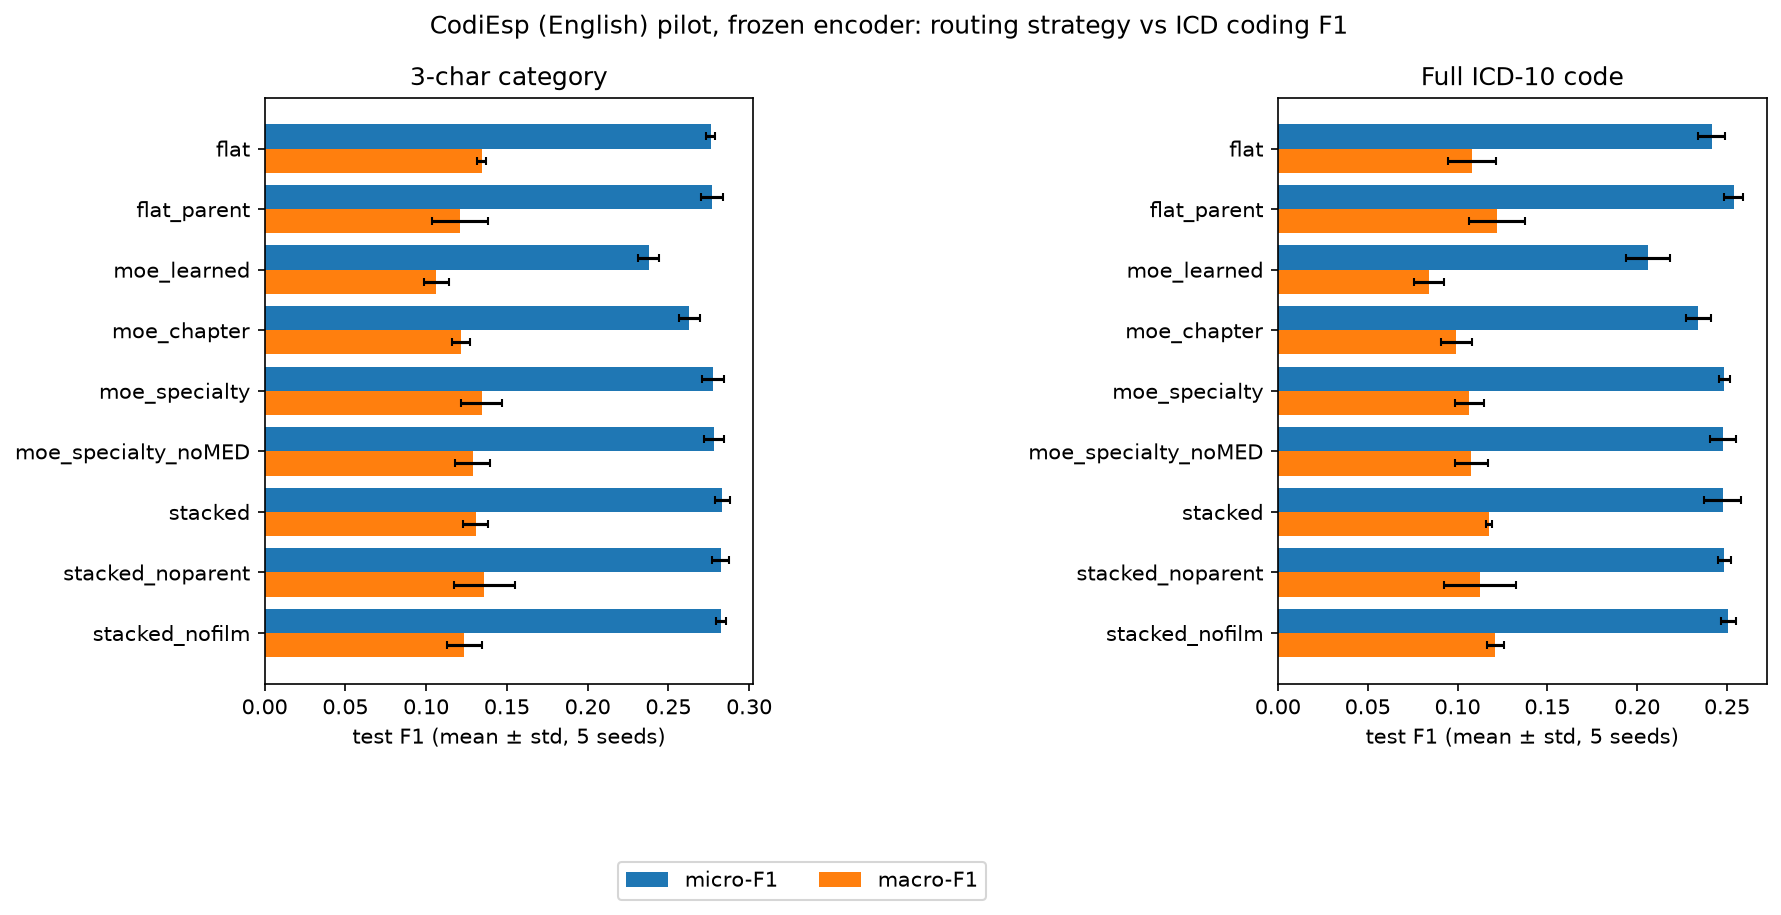
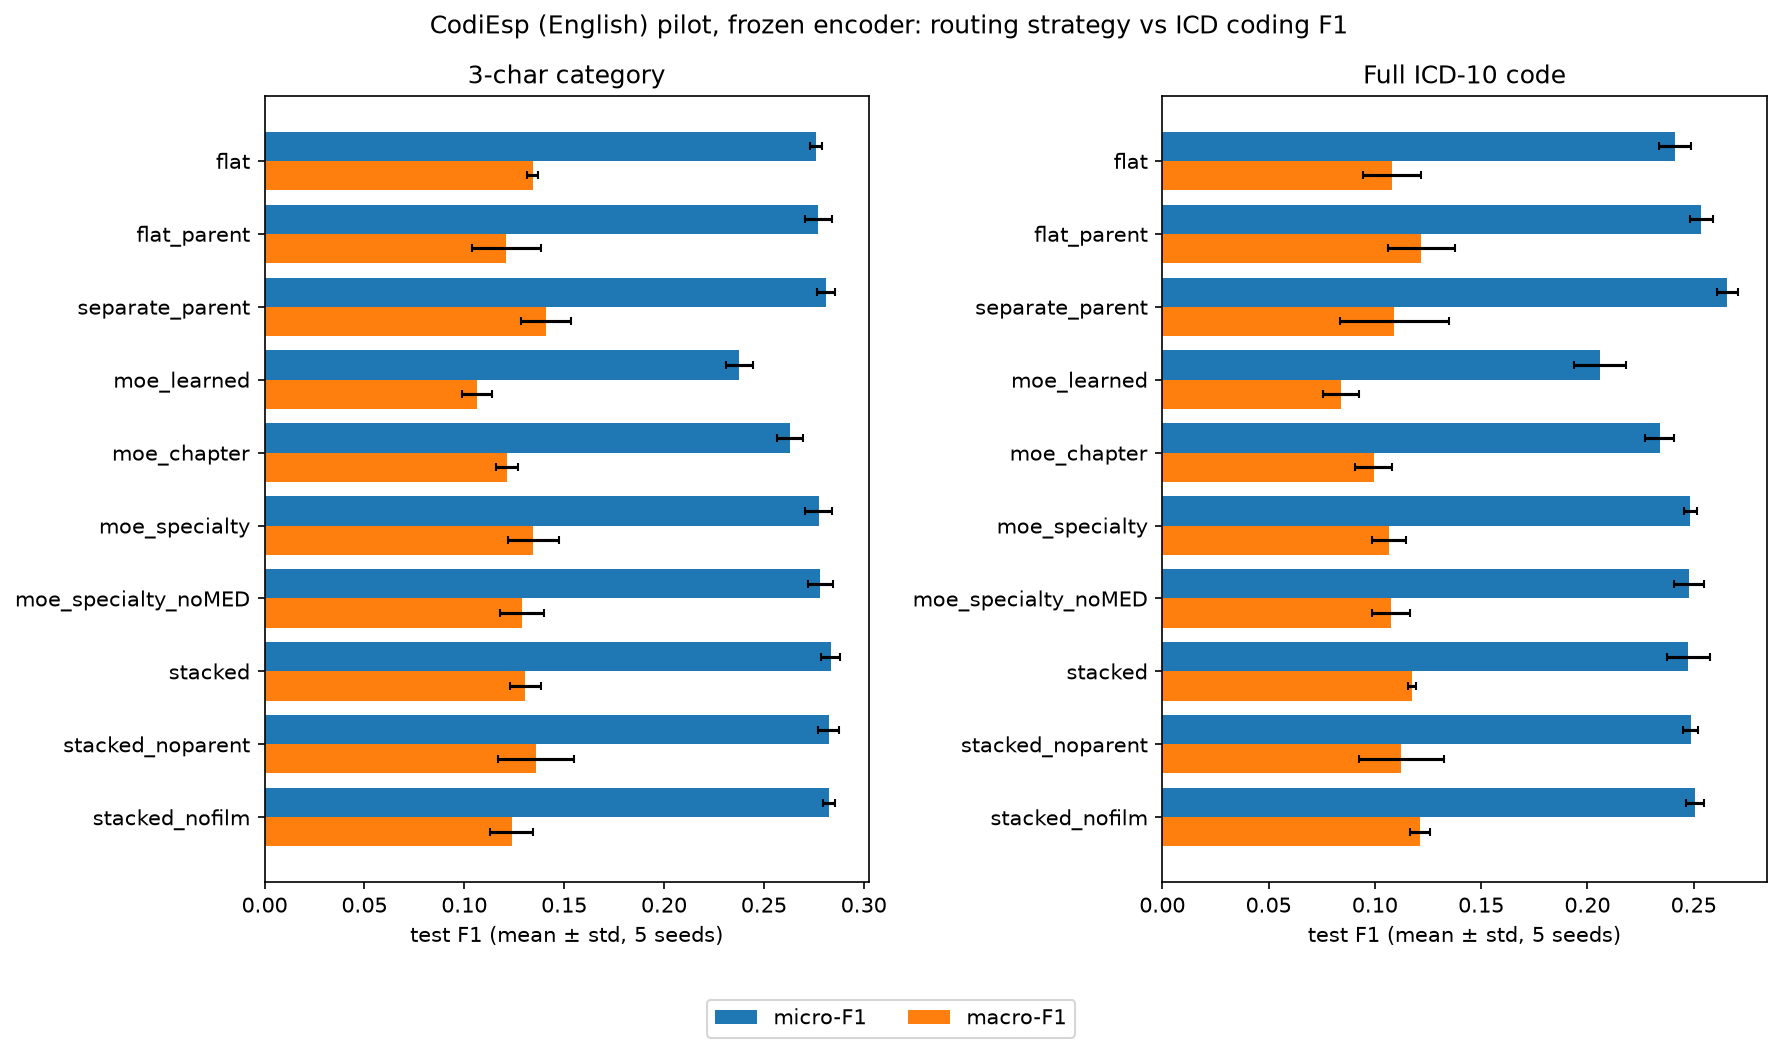
Compare one joint model vs two separate models for parent and full codes
Two separate models (categories first, then full codes conditioned on the
first model's scores) reach 0.266 full-code micro-F1 vs 0.254 for the
joint model, with twice the parameters and noisier macro-F1. The existing
45 runs reproduce exactly through the shared training loop.

diff --git a/index.html b/index.html
@@ -182,7 +182,7 @@ footer { border-top: 1px solid var(--rule); padding-top: 20px; font-size: 0.85re
     <li><div class="num">40.7%<small>of admissions</small></div><p>of admissions in the MIMIC-IV Demo start under general medicine (<code>MED</code>). A general-medicine expert would be the biggest one, so whether we keep it as a catch-all or leave those patients out is a real decision.</p></li>
     <li><div class="num">7.7<small>chapters / stay</small></div><p>ICD chapters per admission on average. A patient usually has codes from many chapters but only one admitting service.</p></li>
     <li><div class="num">+1.4<small>micro-F1 points</small></div><p>Routing by specialty did better than routing by chapter at both code levels. No MoE version clearly beat a plain model without experts, though.</p></li>
-    <li><div class="num">+1.2<small>micro-F1 points</small></div><p>Feeding each full code its parent category's score helped. Published hierarchy methods on MIMIC-III report gains of about the same size (+0.9 to +1.2 micro-F1).</p></li>
+    <li><div class="num">+1.2<small>micro-F1 points</small></div><p>Feeding each full code its parent category's score helped. Splitting this into two separate models, one for parent codes and one for full codes, added another 1.2 points, though with twice the parameters. Published hierarchy methods on MIMIC-III report gains of about the same size (+0.9 to +1.2 micro-F1).</p></li>
   </ul>
 </section>
 
@@ -286,7 +286,8 @@ footer { border-top: 1px solid var(--rule); padding-top: 20px; font-size: 0.85re
       <thead><tr><th>Version</th><th>How it works</th><th>Meeting idea it tests</th></tr></thead>
       <tbody>
         <tr><td>Plain model</td><td>One network, no experts</td><td>Baseline to beat</td></tr>
-        <tr><td>Plain + parent conditioning</td><td>Each full code also sees its 3-character parent's score</td><td>Parent-child hierarchy</td></tr>
+        <tr><td>Plain + parent conditioning (one model)</td><td>One model predicts both levels; each full code also sees its 3-character parent's score</td><td>Parent-child hierarchy</td></tr>
+        <tr><td>Two separate models</td><td>Model 1 predicts the parent codes. Model 2 rereads the note and uses model 1's parent predictions to predict the full codes</td><td>One model vs. separate models for parent and child</td></tr>
         <tr><td>MoE, learned gate</td><td>The model decides how to split notes among 8 experts</td><td>Do we need labels to route at all?</td></tr>
         <tr><td>MoE, chapter-routed</td><td>One expert per ICD chapter; the gate learns to predict the note's chapters</td><td>Chapter experts</td></tr>
         <tr><td>MoE, specialty-routed</td><td>One expert per specialty; the predicted specialty picks the experts</td><td>Specialty experts</td></tr>
@@ -316,6 +317,7 @@ footer { border-top: 1px solid var(--rule); padding-top: 20px; font-size: 0.85re
       <li><b>Specialty routing beat chapter routing</b> (0.277 vs. 0.263 on categories, 0.248 vs. 0.234 on full codes), even though the chapter model is twice the size. My explanation: a note covers many chapters, so the chapter gate has to guess them from the text and spreads its weight around, while the specialty is known up front.</li>
       <li><b>No MoE version clearly beat the plain model.</b> With 500 training notes, each expert gets very little data. The learned gate put almost everything on 1–2 experts and did worst, which suggests routing should be guided by real labels like chapter or service.</li>
       <li><b>Parent conditioning helped full codes</b> (+1.2 micro-F1, +1.4 macro-F1 over the plain model).</li>
+      <li><b>Two separate models beat one model</b> on full codes (0.266 vs. 0.254 micro-F1), the best full-code score of any version. Two catches: the pair has twice the parameters of the single model, and its macro-F1, which weights rare codes equally, was lower and varied a lot between runs (0.109 ± 0.026). So it may help common codes more than rare ones. Model 1's predictions on its own training notes are also more confident than on new notes, which could matter more on MIMIC.</li>
       <li><b>The stacked model had the best category score</b> (0.283), but only by about 1–2 standard deviations. Taking out FiLM, the layer that adjusts the full-code prediction by specialty and chapter, didn't hurt, so that part of the idea needs a different design or more data.</li>
       <li><b>Removing the general-medicine expert changed nothing</b>, because only 8% of CodiEsp notes are classified as general medicine. In MIMIC it's 41%, so this test should matter much more there.</li>
     </ul>
@@ -333,7 +335,7 @@ footer { border-top: 1px solid var(--rule); padding-top: 20px; font-size: 0.85re
       <tbody>
         <tr><td>The <code>services</code> numbers in Experiment 1 come from real MIMIC-IV tables.</td><td>Absolute scores. CodiEsp case reports are shorter and different in style from discharge summaries.</td></tr>
         <tr><td>The experiment design: same encoder for every version, only routing changes, a fixed train/dev/test split, 5 runs each.</td><td>Specialty labels are predicted from MTSamples. In MIMIC the real service would route much more sharply.</td></tr>
-        <tr><td>The code: ICD-9/ICD-10 chapter mapping, all nine versions, and the evaluation all run on any notes coded in ICD-10.</td><td>Rare codes. I left out codes seen fewer than 3 times, and MIMIC has thousands of them.</td></tr>
+        <tr><td>The code: ICD-9/ICD-10 chapter mapping, all ten versions, and the evaluation all run on any notes coded in ICD-10.</td><td>Rare codes. I left out codes seen fewer than 3 times, and MIMIC has thousands of them.</td></tr>
         <tr><td>Direction of the results: supervised routing beats a learned gate, and parent conditioning helps.</td><td>Whether specialty still beats chapter with real service labels and far more training data.</td></tr>
       </tbody>
     </table>
@@ -361,6 +363,7 @@ footer { border-top: 1px solid var(--rule); padding-top: 20px; font-size: 0.85re
         <tr><td>Run the same pipeline on MIMIC-IV discharge notes with the real <code>curr_service</code> labels, using the corrected train/test split from Edin et al.</td><td>Tests whether specialty routing still wins with true labels and far more data.</td></tr>
         <tr><td>Compare hard routing (the service picks exactly one expert), soft routing (the service is one input to the gate), and service plus note text</td><td>Nobody has published on this router design question.</td></tr>
         <tr><td>Test keeping a general-medicine expert vs. leaving MED admissions out</td><td>MED is 41% of admissions in MIMIC, so this choice is big there.</td></tr>
+        <tr><td>Compare one vs. two models at the same size, and check rare codes separately</td><td>Separate models won on common codes here but had twice the parameters and noisier rare-code scores.</td></tr>
         <tr><td>Replace FiLM with attention, where each full code looks directly at its parent codes (like the Two-Stage Decoder)</td><td>FiLM didn't help; attention is the stronger published approach.</td></tr>
         <tr><td>Fine-tune the encoder on a free Kaggle GPU (notebook tested on a small sample; a full run is estimated at about 3 hours)</td><td>Raises the scores and checks that the ranking holds.</td></tr>
       </tbody>
@@ -373,8 +376,8 @@ footer { border-top: 1px solid var(--rule); padding-top: 20px; font-size: 0.85re
   <div class="stack small muted">
     <p><b>Data.</b> MIMIC-IV Demo v2.2: <code>services</code> (first service per admission by transfer time) and <code>diagnoses_icd</code>, with ICD-9 codes mapped to ICD-10 chapters. MTSamples: 4,999 notes reduced to 2,094 after removing duplicates and labels that are note types (Consult, SOAP, Discharge Summary) instead of specialties. CodiEsp English: 500 train / 250 dev / 250 test, keeping codes with at least 3 training occurrences.</p>
     <p><b>Specialty classifier.</b> TF-IDF (1–2-word phrases) with class-balanced logistic regression, 80/20 stratified split.</p>
-    <p><b>Coding models.</b> Bio_ClinicalBERT with notes split into 512-token chunks and averaged, encoder frozen. Experts are 128-unit layers. The chapter gate is trained toward each note's chapter distribution; the learned gate has a load-balancing penalty. Trained with AdamW and stopped early on the dev set; one decision threshold per code level is tuned on dev. Macro-F1 averages over codes that appear in the test set.</p>
-    <p><b>Code.</b> <a href="https://github.com/akankshyam07/icd-moe-pilot" target="_blank" rel="noopener">github.com/akankshyam07/icd-moe-pilot</a>: Python scripts for each step plus a Kaggle notebook. Every run uses a fixed seed and reproduces exactly; the full comparison takes about 8 minutes on a laptop.</p>
+    <p><b>Coding models.</b> Bio_ClinicalBERT with notes split into 512-token chunks and averaged, encoder frozen. Experts are 128-unit layers. The chapter gate is trained toward each note's chapter distribution; the learned gate has a load-balancing penalty. The two-model version trains a category model first, then a separate full-code model that takes the note plus the first model's category scores. Trained with AdamW and stopped early on the dev set; one decision threshold per code level is tuned on dev. Macro-F1 averages over codes that appear in the test set.</p>
+    <p><b>Code.</b> <a href="https://github.com/akankshyam07/icd-moe-pilot" target="_blank" rel="noopener">github.com/akankshyam07/icd-moe-pilot</a>: Python scripts for each step plus a Kaggle notebook. Every run uses a fixed seed and reproduces exactly; the full comparison takes around 10 minutes on a laptop.</p>
   </div>
 </details>
 
@@ -399,7 +402,8 @@ footer { border-top: 1px solid var(--rule); padding-top: 20px; font-size: 0.85re
   // variant, label, family(0 baseline,1 moe,2 stacked), cat micro m/s, cat macro m/s, full micro m/s, full macro m/s, params(k), entropy
   const results = [
     ["flat","Plain model (no experts)",0,.276,.003,.134,.003,.241,.007,.108,.014,571,null],
-    ["flat_parent","Plain + parent conditioning",0,.277,.007,.121,.017,.254,.005,.122,.016,572,null],
+    ["flat_parent","Plain + parent (one model)",0,.277,.007,.121,.017,.254,.005,.122,.016,572,null],
+    ["separate_parent","Two separate models",0,.281,.004,.141,.013,.266,.005,.109,.026,1143,null],
     ["moe_learned","MoE, learned gate",1,.238,.007,.106,.008,.206,.012,.084,.009,906,.25],
     ["moe_chapter","MoE, chapter-routed",1,.263,.007,.122,.006,.234,.007,.099,.009,2295,.69],
     ["moe_specialty","MoE, specialty-routed",1,.277,.007,.134,.013,.248,.003,.107,.008,1195,.89],

diff --git a/pilot/run_moe.py b/pilot/run_moe.py
@@ -4,7 +4,10 @@ Every variant uses the same frozen Bio_ClinicalBERT note embedding and predicts 
 3-char ICD category ("cat") and full code ("full"). Only the routing / conditioning differs.
 
   flat                 one MLP (no experts)
-  flat_parent          flat + child logits conditioned on parent-category logits
+  flat_parent          flat + child logits conditioned on parent-category logits (one model, trained jointly)
+  separate_parent      two separate models: model 1 predicts categories; model 2 predicts full codes, conditioned
+                       on model 1's category logits. Model 1's logits on the training notes are more confident
+                       than on unseen notes, so model 2 trains on cleaner parents than it sees at test time.
   moe_learned          unsupervised gate, load-balancing loss
   moe_chapter          gate trained to predict the note's ICD chapters (chapter unknown at test time)
   moe_specialty        gate = pseudo-specialty probabilities (like MIMIC's services table, known at test time)
@@ -28,7 +31,7 @@ import matplotlib.pyplot as plt
 from common import OUT
 
 HIDDEN = 128
-VARIANTS = ["flat", "flat_parent", "moe_learned", "moe_chapter", "moe_specialty", "moe_specialty_noMED",
+VARIANTS = ["flat", "flat_parent", "separate_parent", "moe_learned", "moe_chapter", "moe_specialty", "moe_specialty_noMED",
             "stacked", "stacked_noparent", "stacked_nofilm"]
 
 
@@ -68,7 +71,7 @@ class Model(nn.Module):
             self.parent_w = nn.Parameter(torch.full((n_full,), 0.5))
         self.cat_head, self.full_head = nn.Linear(HIDDEN, n_cat), nn.Linear(HIDDEN, n_full)
 
-    def forward(self, x, spec):
+    def forward(self, x, spec, parent_logits=None):
         x = self.drop(x)
         gate = None
         if self.v.startswith("flat"):
@@ -90,7 +93,8 @@ class Model(nn.Module):
             z_full = z * (1 + gamma) + beta
         full = self.full_head(z_full)
         if self.use_parent:
-            full = full + self.parent_w * cat[:, self.parent]
+            parents = cat if parent_logits is None else parent_logits
+            full = full + self.parent_w * parents[:, self.parent]
         return cat, full, gate
 
 
@@ -147,32 +151,70 @@ def evaluate(variant, data, dev_probs, test_probs, test_gate, seed, params):
     return row
 
 
+def fit(model, train_step, dev_score, epochs=400):
+    """Full-batch AdamW; keeps the weights with the best dev score (checked every 10 epochs)."""
+    opt = torch.optim.AdamW(model.parameters(), lr=1e-3, weight_decay=1e-2)
+    best, best_state = -1, None
+    for epoch in range(epochs):
+        loss = train_step()
+        opt.zero_grad(), loss.backward(), opt.step()
+        if epoch % 10 == 9:
+            model.eval()
+            with torch.no_grad():
+                score = dev_score()
+            model.train()
+            if score > best:
+                best, best_state = score, {k: v.clone() for k, v in model.state_dict().items()}
+    model.load_state_dict(best_state)
+    model.eval()
+
+
+def run_separate(data, seed, epochs=400):
+    """Two independently trained models: categories first, then full codes conditioned on them."""
+    torch.manual_seed(seed), np.random.seed(seed)
+    t = {k: torch.as_tensor(v) for k, v in data.items() if v.dtype.kind in "fiub"}
+    spec = specialty_inputs("flat", data)
+    dims = (t["train_x"].shape[1], t["train_cat"].shape[1], t["train_full"].shape[1], data["parent"],
+            t["train_chapter"].shape[1], spec["train"].shape[1])
+    first, second = Model("flat", *dims), Model("flat_parent", *dims)
+
+    fit(first, lambda: F.binary_cross_entropy_with_logits(first(t["train_x"], spec["train"])[0], t["train_cat"]),
+        lambda: best_threshold_f1(torch.sigmoid(first(t["dev_x"], spec["dev"])[0]).numpy(), data["dev_cat"])[1], epochs)
+    with torch.no_grad():
+        cat_logits = {s: first(t[f"{s}_x"], spec[s])[0] for s in ["train", "dev", "test"]}
+
+    fit(second, lambda: F.binary_cross_entropy_with_logits(
+            second(t["train_x"], spec["train"], cat_logits["train"])[1], t["train_full"]),
+        lambda: best_threshold_f1(torch.sigmoid(second(t["dev_x"], spec["dev"], cat_logits["dev"])[1]).numpy(),
+                                  data["dev_full"])[1], epochs)
+    with torch.no_grad():
+        probs = {s: (torch.sigmoid(cat_logits[s]).numpy(),
+                     torch.sigmoid(second(t[f"{s}_x"], spec[s], cat_logits[s])[1]).numpy(), None) for s in ["dev", "test"]}
+    params = sum(p.numel() for p in first.parameters()) + sum(p.numel() for p in second.parameters())
+    return evaluate("separate_parent", data, probs["dev"], probs["test"], None, seed, params)
+
+
 def run(variant, data, seed, epochs=400):
     torch.manual_seed(seed), np.random.seed(seed)
     t = {k: torch.as_tensor(v) for k, v in data.items() if v.dtype.kind in "fiub"}
     spec = specialty_inputs(variant, data)
     model = Model(variant, t["train_x"].shape[1], t["train_cat"].shape[1], t["train_full"].shape[1],
                   data["parent"], t["train_chapter"].shape[1], spec["train"].shape[1])
-    opt = torch.optim.AdamW(model.parameters(), lr=1e-3, weight_decay=1e-2)
 
     def predict(split):
-        model.eval()
         with torch.no_grad():
             cat, full, gate = model(t[f"{split}_x"], spec[split])
-        model.train()
         return torch.sigmoid(cat).numpy(), torch.sigmoid(full).numpy(), None if gate is None else gate.numpy()
 
-    best, best_state = -1, None
-    for epoch in range(epochs):
+    def train_step():
         cat, full, gate = model(t["train_x"], spec["train"])
-        loss = compute_loss(variant, cat, full, gate, t["train_cat"], t["train_full"], t["train_chapter"])
-        opt.zero_grad(), loss.backward(), opt.step()
-        if epoch % 10 == 9:
-            pc, pf, _ = predict("dev")
-            score = best_threshold_f1(pc, data["dev_cat"])[1] + best_threshold_f1(pf, data["dev_full"])[1]
-            if score > best:
-                best, best_state = score, {k: v.clone() for k, v in model.state_dict().items()}
-    model.load_state_dict(best_state)
+        return compute_loss(variant, cat, full, gate, t["train_cat"], t["train_full"], t["train_chapter"])
+
+    def dev_score():
+        pc, pf, _ = predict("dev")
+        return best_threshold_f1(pc, data["dev_cat"])[1] + best_threshold_f1(pf, data["dev_full"])[1]
+
+    fit(model, train_step, dev_score, epochs)
     dev, test = predict("dev"), predict("test")
     return evaluate(variant, data, dev, test, test[2], seed, sum(p.numel() for p in model.parameters()))
 
@@ -225,7 +267,7 @@ def main():
     rows = []
     for v in VARIANTS:
         for s in range(args.seeds):
-            rows.append(run(v, data, s))
+            rows.append(run_separate(data, s) if v == "separate_parent" else run(v, data, s))
         r = pd.DataFrame(rows[-args.seeds:])
         print(f"{v:22s} cat micro {r.cat_micro.mean():.3f}  full micro {r.full_micro.mean():.3f}  "
               f"full macro {r.full_macro.mean():.3f}")

diff --git a/pilot/README.md b/pilot/README.md
@@ -47,7 +47,8 @@ The router then gives each CodiEsp note a soft specialty distribution (a stand-i
 | variant | category micro-F1 | full-code micro-F1 | full-code macro-F1 | gate entropy |
 |---|---|---|---|---|
 | flat (no experts) | 0.276 ± 0.003 | 0.241 ± 0.007 | 0.108 ± 0.014 | |
-| flat + parent conditioning | 0.277 ± 0.007 | **0.254 ± 0.005** | 0.122 ± 0.016 | |
+| flat + parent conditioning (one model) | 0.277 ± 0.007 | 0.254 ± 0.005 | **0.122 ± 0.016** | |
+| two separate models (parent, then full code) | 0.281 ± 0.004 | **0.266 ± 0.005** | 0.109 ± 0.026 | |
 | MoE, learned gate | 0.238 ± 0.007 | 0.206 ± 0.012 | 0.084 ± 0.009 | 0.25 |
 | MoE, chapter-routed | 0.263 ± 0.007 | 0.234 ± 0.007 | 0.099 ± 0.009 | 0.69 |
 | MoE, specialty-routed | 0.277 ± 0.007 | 0.248 ± 0.003 | 0.107 ± 0.008 | 0.89 |
@@ -69,6 +70,10 @@ Full table with macro-F1 for categories, parameter counts and expert usage: `out
    was worst, which supports using supervised routing (chapter or specialty labels) over a free gate.
 3. **Parent → child conditioning helped full codes** (+1.2 micro-F1, +1.4 macro-F1 over flat). Published
    hierarchy methods on MIMIC-III report gains of about the same size (+0.9 to +1.2 micro-F1).
+   **Two separate models** (a category model, then a full-code model that rereads the note and takes the
+   first model's category scores) gave the best full-code micro-F1 (0.266, +1.2 over one model). But the
+   pair has twice the parameters, and its full-code macro-F1 was lower and noisy (0.109 ± 0.026), so the
+   gain may be mostly on common codes.
 4. **Stacked specialty → chapter** gave the best category micro-F1, but the margin over flat is within
    ~1–2 standard deviations. **FiLM conditioning on specialty and chapter did not help.** Removing it
    was as good or better.
@@ -92,7 +97,7 @@ Full table with macro-F1 for categories, parameter counts and expert usage: `out
 | `common.py` | ICD-9/10 → chapter mapping (with self-check), MTSamples → service map |
 | `mimic_demo.py` | Experiment 1 |
 | `prepare.py` | Specialty router, frozen embeddings, label matrices → `out/codiesp_features.npz` |
-| `run_moe.py` | Experiment 2, all 9 variants (frozen encoder; ~8 min on a laptop CPU) |
+| `run_moe.py` | Experiment 2, all 10 variants (frozen encoder; ~10 min on a laptop CPU) |
 | `finetune.py` | Same variants with Bio_ClinicalBERT fine-tuned end to end (GPU) |
 | `kaggle_pilot.ipynb` | Self-contained notebook: downloads data, runs everything on a free Kaggle GPU |
 

diff --git a/pilot/out/moe_results.md b/pilot/out/moe_results.md
@@ -2,6 +2,7 @@
 |:--------------------|:--------------|:--------------|:--------------|:--------------|:---------|---------------:|-------------------------:|
 | flat                | 0.276 ± 0.003 | 0.134 ± 0.003 | 0.241 ± 0.007 | 0.108 ± 0.014 | 571k     |                |                          |
 | flat_parent         | 0.277 ± 0.007 | 0.121 ± 0.017 | 0.254 ± 0.005 | 0.122 ± 0.016 | 572k     |                |                          |
+| separate_parent     | 0.281 ± 0.004 | 0.141 ± 0.013 | 0.266 ± 0.005 | 0.109 ± 0.026 | 1143k    |                |                          |
 | moe_learned         | 0.238 ± 0.007 | 0.106 ± 0.008 | 0.206 ± 0.012 | 0.084 ± 0.009 | 906k     |           0.25 |                      1.5 |
 | moe_chapter         | 0.263 ± 0.007 | 0.122 ± 0.006 | 0.234 ± 0.007 | 0.099 ± 0.009 | 2295k    |           0.69 |                      7   |
 | moe_specialty       | 0.277 ± 0.007 | 0.134 ± 0.013 | 0.248 ± 0.003 | 0.107 ± 0.008 | 1195k    |           0.89 |                      6.8 |

diff --git a/README.md b/README.md
@@ -37,5 +37,5 @@ cd ../pilot
 ../.venv/bin/python mimic_demo.py && ../.venv/bin/python prepare.py && ../.venv/bin/python run_moe.py
 ```
 
-The full comparison takes about 8 minutes on a laptop. For a fine-tuned encoder, run `pilot/kaggle_pilot.ipynb`
+The full comparison takes around 10 minutes on a laptop. For a fine-tuned encoder, run `pilot/kaggle_pilot.ipynb`
 on a free Kaggle GPU (tested on a small sample; a full run is estimated at about 3 hours).
